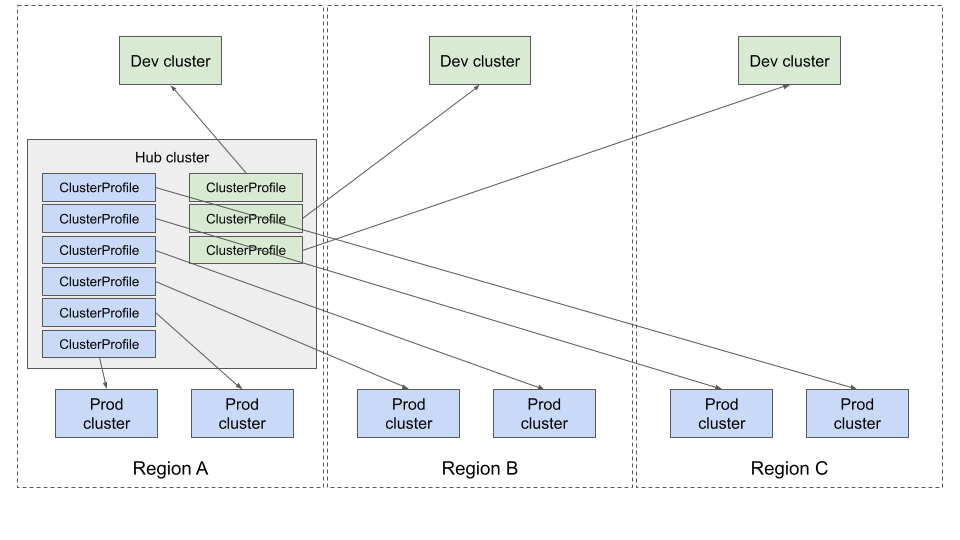
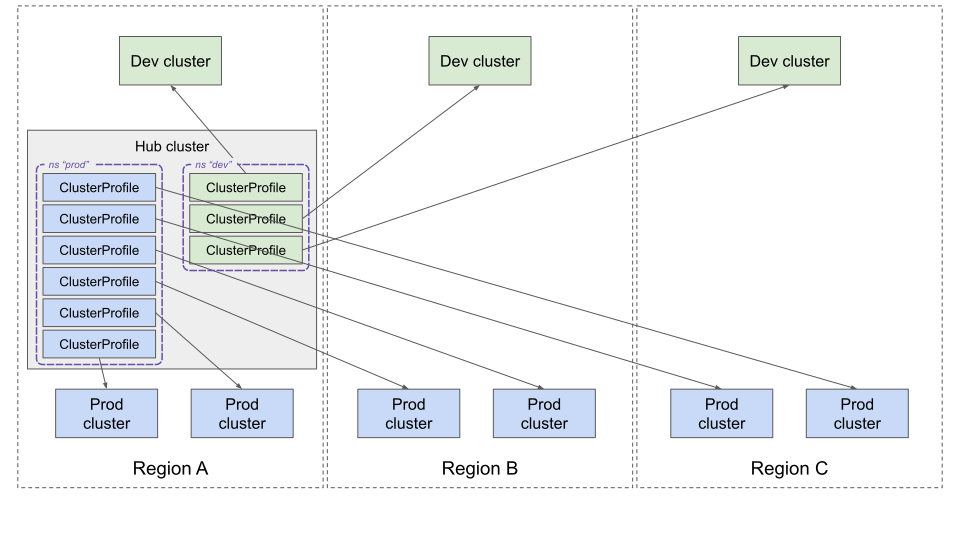
KEP-4322: Define inventories by ClusterProfile namespace

diff --git a/keps/sig-multicluster/4322-cluster-inventory/README.md b/keps/sig-multicluster/4322-cluster-inventory/README.md
@@ -147,13 +147,13 @@ tags, and then generate with `hack/update-toc.sh`.
 - [Alternatives](#alternatives)
   - [Extending Cluster API <code>Cluster</code> resource](#extending-cluster-api-cluster-resource)
   - [ClusterProfile CRD scope](#clusterprofile-crd-scope)
-    - [Global hub cluster for multiple clustersets](#global-hub-cluster-for-multiple-clustersets)
-    - [Global hub cluster per clusterset](#global-hub-cluster-per-clusterset)
-    - [Regional hub cluster for multiple clustersets](#regional-hub-cluster-for-multiple-clustersets)
-    - [Regional hub clusters per clusterset](#regional-hub-clusters-per-clusterset)
-    - [Self-assembling clustersets](#self-assembling-clustersets)
+    - [Global hub cluster for multiple inventories](#global-hub-cluster-for-multiple-inventories)
+    - [Global hub cluster per inventory](#global-hub-cluster-per-inventory)
+    - [Regional hub cluster for multiple inventories](#regional-hub-cluster-for-multiple-inventories)
+    - [Regional hub clusters per inventory](#regional-hub-clusters-per-inventory)
+    - [Self-assembling inventories](#self-assembling-inventories)
     - [Workload placement across multiple clusters <em>without</em> cross-cluster service networking](#workload-placement-across-multiple-clusters-without-cross-cluster-service-networking)
-    - [Workload placement into a specific clusterset](#workload-placement-into-a-specific-clusterset)
+    - [Workload placement into a specific inventory](#workload-placement-into-a-specific-inventory)
   - [Push Model via Credentials in Secret](#push-model-via-credentials-in-secret)
     - [Secret format](#secret-format)
 - [Infrastructure Needed (Optional)](#infrastructure-needed-optional)
@@ -232,6 +232,8 @@ ClusterProfile API. The objective is to establish a shared interface
 for cluster inventory, defining a standard for status reporting while
 allowing for multiple implementations.
 
+The ClusterProfile objects in one namespace form one cluster inventory.
+
 Additionally, to manage an inventory of clusters, a platform admin can rely on
 having the cluster manager output
 [ClusterProfile CRs](https://github.com/kubernetes-sigs/cluster-inventory-api/blob/main/apis/v1alpha1/clusterprofile_types.go)
@@ -278,7 +280,7 @@ management. Examples of consumers includes:
   endpoints. A common ClusterProfile API will give schedulers a
   standard to reason about clusters and help to foster the growth of
   this area.
-* GitOps tools (ArgoCD, flux etc) are having the requirement to deploy
+* GitOps tools (Argo CD, Flux etc) are having the requirement to deploy
   workload to multiple clusters. They either need to build the cluster
   concept by themselves or understand APIs representing a cluster from each 
   cluster management project. A common ClusterProfile API can provide
@@ -315,7 +317,8 @@ know that this has succeeded?
   is most effective when platform extension authors can use it as a
   foundational tool to create extensions compatible with multiple
   providers.
-* Allow cluster managers of different types to share a single point inventory.
+* Allow cluster managers of different types to create ClusterProfiles in the
+  same inventory.
 * Provide a library for controllers to obtain credentials for a cluster
   represented by a ClusterProfile
 * Allow cluster managers to provide a method to obtain credentials that
@@ -379,9 +382,12 @@ the API proposed by this KEP aims to
   names that are used in ClusterProfile.
 
 ### Terminology
-- **Cluster Inventory**: A conceptual term referring to a collection of clusters.
+- **Cluster Inventory**: The collection of ClusterProfile objects in one
+  namespace. A single cluster can host multiple inventories in different
+  namespaces.
 
-- **Member Cluster**: A kubernetes cluster that is part of a cluster inventory.
+- **Member Cluster**: A Kubernetes cluster represented by a ClusterProfile in
+  a cluster inventory.
 
 - **Cluster Manager**: An entity that creates the ClusterProfile API object per member cluster,
   and keeps their status up-to-date. Each cluster manager MUST be identified with a unique name.
@@ -461,31 +467,37 @@ manager.
 The ClusterProfile API represents a single member cluster in a cluster inventory.
 
 #### What's the relationship between a cluster inventory and clusterSet?
-A cluster inventory may or may not represent a ClusterSet. A cluster inventory is considered a [clusterSet](https://github.com/kubernetes/enhancements/tree/master/keps/sig-multicluster/1645-multi-cluster-services-api#terminology)
-if all its member clusters adhere to the [namespace sameness](https://github.com/kubernetes/community/blob/master/sig-multicluster/namespace-sameness-position-statement.md) principle.
-Note that a cluster can only be in one ClusterSet while there is not such restriction for a cluster inventory.
+A cluster inventory is defined by its namespace and is independent of ClusterSet.
+This KEP does not define a mapping between cluster inventories and [clusterSets](https://github.com/kubernetes/enhancements/tree/master/keps/sig-multicluster/1645-multi-cluster-services-api#terminology):
+a clusterSet requires properties beyond [namespace sameness](https://github.com/kubernetes/community/blob/master/sig-multicluster/namespace-sameness-position-statement.md),
+such as mutual trust, shared ownership, and symmetric and transitive membership, and those properties
+are established by an MCS implementation rather than by this API.
 
 #### How should the API be consumed?
 We recommend that all ClusterProfile objects within the same cluster inventory reside on
 a dedicated Kubernetes cluster (aka. the hub cluster). This approach allows consumers to have a single integration 
 point to access all the information within a cluster inventory. Additionally, a multi-cluster aware
 controller can be run on the dedicated  cluster to offer high-level functionalities over this inventory of clusters.
+A consumer that reads ClusterProfile objects from multiple namespaces is consuming multiple
+inventories.
 
-####  How should we organize ClusterProfile objects on a hub cluster?
-While there are no strict requirements, we recommend making the ClusterProfile API a namespace-scoped object.
-This approach allows users to leverage Kubernetes' native namespace-based RBAC if they wish to restrict access to 
-certain clusters within the inventory.
+#### How should we organize ClusterProfile objects on a hub cluster?
+ClusterProfile is a namespace-scoped API. This allows users to leverage Kubernetes' native
+namespace-based RBAC if they wish to restrict access to certain clusters within the inventory.
 
-However, if a cluster inventory represents a ClusterSet, all its ClusterProfile objects MUST be part of the same clusterSet
-and namespace must be used as the grouping mechanism. In addition, the namespace must have a label with the key "clusterset.multicluster.x-k8s.io"
-and the value as the name of the clusterSet.
+Inventories may be organized per consumer. In the example below, a GitOps tool
+such as Argo CD consumes an inventory in the `argocd` namespace containing the
+dev, staging, and prod clusters, while MultiKueue consumes a separate inventory
+in the `kueue` namespace containing the prod and batch clusters. The prod
+cluster is a member of both inventories, represented by one ClusterProfile
+object in each namespace.
+
+![two consumer-scoped inventories on one hub cluster sharing a member cluster](./consumer-scoped-inventories.svg)
 
 #### Uniqueness of the ClusterProfile object
-While there are no strict requirements, we recommend that there is only one ClusterProfile object representing any member cluster
-on a hub cluster. 
-
-However, a ClusterProfile object can only be in one ClusterSet since the namespace sameness property is transitive, therefore 
-it can only be in the namespace of that clusterSet if it is in a ClusterSet.
+Within a cluster inventory, each member cluster SHOULD be represented by at most one
+ClusterProfile object, regardless of which cluster manager created it. The same member
+cluster may be represented in more than one inventory on the same hub cluster.
 
 
 ### Risks and Mitigations
@@ -550,12 +562,13 @@ below questions:
 
 ### Cluster Name
 
-It is required that cluster name is unique for each cluster, and it
-should also be unique among different providers (cluster manager). It
-is cluster manager's responsibility to ensure the name uniqueness.
+It is required that cluster name is unique within a cluster inventory,
+even when different cluster managers create ClusterProfiles in the same
+inventory. Each cluster manager is responsible for the uniqueness of the
+names it creates; the platform administrator who connects multiple
+cluster managers to one inventory is responsible for avoiding name
+collisions between them.
 
-It's the responsibility of the cluster manager platform administrator
-to ensure cluster name uniqueness.
 The examples below serve more as recommendations than hard requirements,
 providing guidance on best practices.
 
@@ -998,6 +1011,7 @@ apiVersion: multicluster.x-k8s.io/v1alpha1
 kind: ClusterProfile
 metadata:
  name: generated-cluster-name
+ namespace: some-cluster-inventory
  labels:
    x-k8s.io/cluster-manager: some-cluster-manager
 spec:
@@ -1033,6 +1047,7 @@ apiVersion: multicluster.x-k8s.io/v1alpha1
 kind: ClusterProfile
 metadata:
  name: my-cluster-1
+ namespace: fleet-system
 spec:
   displayName: my-cluster-1
   clusterManager:
@@ -1061,6 +1076,7 @@ Below are some examples that feature the use of extensions in ClusterProfiles:
   kind: ClusterProfile
   metadata:
     name: my-cluster-1
+    namespace: fleet-system
   spec:
     displayName: my-cluster-1
     clusterManager:
@@ -1089,6 +1105,7 @@ Below are some examples that feature the use of extensions in ClusterProfiles:
   kind: ClusterProfile
   metadata:
     name: my-on-prem-cluster
+    namespace: fleet-system
   spec: ...
   status:
     ...
@@ -1115,6 +1132,7 @@ Below are some examples that feature the use of extensions in ClusterProfiles:
   kind: ClusterProfile
   metadata:
    name: my-aks-cluster
+   namespace: fleet-system
   spec: ...
   status:
     ...
@@ -1582,6 +1600,10 @@ Major milestones might include:
   this KEP. The access provider plugin mechanism, `accessProviders` API
   field, and all related design details were consolidated here since the base
   API and the access-related fields are expected to graduate together.
+- 2026-07-16: Defined a cluster inventory as the set of ClusterProfile
+  objects in one namespace, scoped the ClusterProfile and cluster name
+  uniqueness rules to the inventory, and defined cluster inventories
+  independently of ClusterSet.
 
 ## Drawbacks
 
@@ -1626,43 +1648,43 @@ but was met with pushback by potential adopters in part due to a desire to host
 multiple distinct registry lists on a single control plane, which would be far
 more straightforward with namespaced resources.
 
-#### Global hub cluster for multiple clustersets
+#### Global hub cluster for multiple inventories
 
-![illustration of global hub for multiple clustersets topology](./global-hub.svg)
+![illustration of global hub for multiple inventories topology](./global-hub.svg)
 
-In this model, a single global hub cluster is used to manage multiple clustersets (a "Prod" clusterset and "Dev" clusterset in this illustration). For this use case, some means of segmenting the ClusterProfile resources into distinct groups for each clusterset is needed, and ideally should facilitate selecting all ClusterProfiles of a given clusterset. Because of this selection-targeting goal, setting clusterset membership within the `spec` of a ClusterProfile would not be sufficient. While setting a label such as the proposed `clusterset.multicluster.x-k8s.io` on the ClusterProfile resource (instead of a namespace) could be acceptable, managing multiple cluster-scoped ClusterProfile resources for multiple unrelated clustersets on a single global hub could quickly get cluttered. In addition to grouping clarity, namespace scoping could allow RBAC delegation for separate teams to manage resources for their own clustersets in isolation while still using a shared hub. The group of all clusters registered on the hub (potentially including clusters belonging to different clustersets or clusters not belonging to any clusterset) may represent a single "inventory" or multiple inventories, but such a definition is beyond the scope of this document and is permissible to be an undefined implementation detail.
+In this model, a single global hub cluster hosts multiple cluster inventories (a "Prod" inventory and a "Dev" inventory in this illustration). For this use case, some means of segmenting the ClusterProfile resources into distinct inventories is needed, and ideally should facilitate selecting all ClusterProfiles of a given inventory. Because of this selection-targeting goal, recording inventory membership within the `spec` of a ClusterProfile would not be sufficient. While a label on the ClusterProfile resource (instead of a namespace) could serve as the grouping mechanism, managing cluster-scoped ClusterProfile resources for multiple unrelated inventories on a single global hub could quickly get cluttered. In addition to grouping clarity, namespace scoping allows RBAC delegation for separate teams to manage their own inventories in isolation while still using a shared hub.
 
-#### Global hub cluster per clusterset
+#### Global hub cluster per inventory
 
-![illustration of global hub per clusterset topology](./global-hub-per-clusterset.svg)
+![illustration of global hub per inventory topology](./global-hub-per-inventory.svg)
 
-In this model, each "inventory" has a 1:1 mapping with a clusterset containing clusters in multiple regions. A cluster-scoped ClusterProfile CRD would be sufficient for this architecture, but it requires a proliferation of hub clusters, which may not be optimal. This model is still implementable with namespace-scoped ClusterProfile CRDs by writing them all to a single namespace, either the `default` namespace or a specific namespace configured in the cluster manager. The risk of placing resources in the wrong namespace would be somewhat minimal if following the suggested pattern of having ClusterProfile resources be written by a "manager" rather than authored by humans.
+In this model, each cluster inventory resides on its own dedicated hub cluster and contains member clusters in multiple regions. A cluster-scoped ClusterProfile CRD would be sufficient for this architecture, but it requires a proliferation of hub clusters, which may not be optimal. This model is still implementable with namespace-scoped ClusterProfile CRDs by writing them all to a single namespace, either the `default` namespace or a specific namespace configured in the cluster manager. The risk of placing resources in the wrong namespace would be somewhat minimal if following the suggested pattern of having ClusterProfile resources be written by a "manager" rather than authored by humans.
 
-#### Regional hub cluster for multiple clustersets
+#### Regional hub cluster for multiple inventories
 
-![illustration of regional hub clusters for multiple clustersets topology](./regional-hub-multiple-clustersets.svg)
+![illustration of regional hub clusters for multiple inventories topology](./regional-hub-multiple-inventories.svg)
 
-In this model, "hub" clusters are limited to a regional scope (potentially for architectural limitations or performance optimizations) and each hub is used to manage clusters only from the local region, but which may belong to separate clustersets. If, as in the pictured example, clustersets still span multiple regions, some out-of-band synchronization mechanism between the regional hubs would likely be needed. This model has similar segmentation needs to the global hub model, just at a smaller scale.
+In this model, "hub" clusters are limited to a regional scope (potentially for architectural limitations or performance optimizations) and each hub is used to manage clusters only from the local region, grouped into separate inventories per namespace. If, as in the pictured example, a logical group of clusters (such as an MCS clusterset) still spans multiple regions, its ClusterProfiles are split across inventories on different regional hubs, and some out-of-band synchronization mechanism between the regional hubs would likely be needed. This model has similar segmentation needs to the global hub model, just at a smaller scale.
 
-#### Regional hub clusters per clusterset
+#### Regional hub clusters per inventory
 
-![illustration of regional hub clusters per clusterset topology](./regional-hub-per-clusterset.svg)
+![illustration of regional hub clusters per inventory topology](./regional-hub-per-inventory.svg)
 
 This is creeping pretty far towards excessive cluster proliferation (and cross-region coordination overhead) purely for management needs (as opposed to actually running workloads), and would be more likely to be a reference or testing implementation than an architecture suitable for production scale.
 
-#### Self-assembling clustersets
+#### Self-assembling inventories
 
-![illustration of self-assembling clusterset topology](./self-assembling-clustersets.svg)
+![illustration of self-assembling inventory topology](./self-assembling-inventories.svg)
 
-This is the model most suited to a cluster-scoped ClusterProfile resource. In contrast to the prior models discussed, in this approach the ClusterProfile CRD would be written directly to each "member" cluster. ClusterSet membership would either be established through peer-to-peer relationships, or managed by an external control plane. For ClusterSet security and integrity, a two-way handshake of some sort would be needed between the local cluster and each peer or the external control plane to ensure it is properly authorized to serve endpoints for exported services or import services from other clusters. While these approaches could be implemented with a namespace-scoped ClusterProfile CRD in the `default` or a designated namespace, misuse is most likely in this model, because the resource would be more likely to be authored by a human if using the peer-to-peer model. Due to the complexity and fragility concerns of managing clusterset membership in a peer-to-peer topology, an external control plane would likely be preferable. Assuming the external control plane does not support Kubernetes APIs (if it did, any of the "hub" models could be applied instead), it could still be possible to implement this model with a namespace-scoped ClusterProfile resource, but it is _not_ recommended.
+This is the model most suited to a cluster-scoped ClusterProfile resource. In contrast to the prior models discussed, in this approach the ClusterProfile CRD would be written directly to each "member" cluster. Membership would either be established through peer-to-peer relationships, or managed by an external control plane. For inventory security and integrity, a two-way handshake of some sort would be needed between the local cluster and each peer or the external control plane to ensure it is properly authorized to participate (for example, to serve endpoints for exported services in an MCS implementation). While these approaches could be implemented with a namespace-scoped ClusterProfile CRD in the `default` or a designated namespace, misuse is most likely in this model, because the resource would be more likely to be authored by a human if using the peer-to-peer model. Due to the complexity and fragility concerns of managing membership in a peer-to-peer topology, an external control plane would likely be preferable. Assuming the external control plane does not support Kubernetes APIs (if it did, any of the "hub" models could be applied instead), it could still be possible to implement this model with a namespace-scoped ClusterProfile resource, but it is _not_ recommended.
 
 #### Workload placement across multiple clusters _without_ cross-cluster service networking
 
-In this model, a consumer of the Cluster Inventory API is looking to optimize workload placement to take advantage of excess capacity on existing managed clusters. These workloads may have specific hardware resource needs such as GPUs, but are typically "batch" jobs that do not require multi-cluster service networking to communicate with known services in a specific clusterset. The isolated nature of these jobs could allow them to be scheduled on many known clusters regardless of clusterset membership. A centralized hub which could register clusters in disparate clustersets or no clusterset and return a list of all known clusters from a single API call would be the most efficient for this consumer to query. Namespaced ClusterProfile CRDs on a global hub would be the best fit for this use case.
+In this model, a consumer of the Cluster Inventory API is looking to optimize workload placement to take advantage of excess capacity on existing managed clusters. These workloads may have specific hardware resource needs such as GPUs, but are typically "batch" jobs that do not require multi-cluster service networking to communicate with known services on other clusters. The isolated nature of these jobs could allow them to be scheduled on many known clusters regardless of any other grouping. A centralized hub that registers all such clusters in a single cluster inventory and returns them from a single API call would be the most efficient for this consumer to query. Namespaced ClusterProfile CRDs on a global hub would be the best fit for this use case.
 
-#### Workload placement into a specific clusterset
+#### Workload placement into a specific inventory
 
-Within a single clusterset, a global workload placement controller may seek to balance capacity across multiple regions in response to demand, cost efficiency, or other factors. Querying a list of all clusters within a single clusterset should be possible to serve this use case, which is amenable to either cluster-scoped or namespaced-scoped ClusterProfile CRDs.
+Within a single inventory (for example, a set of clusters connected by an MCS implementation), a global workload placement controller may seek to balance capacity across multiple regions in response to demand, cost efficiency, or other factors. Querying a list of all clusters within a single inventory should be possible to serve this use case, which is amenable to either cluster-scoped or namespace-scoped ClusterProfile CRDs.
 
 ### Push Model via Credentials in Secret
 